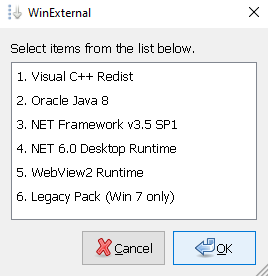
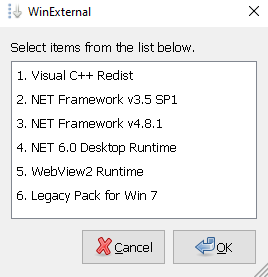
Update 08/25/2022

diff --git a/README.md b/README.md
@@ -4,19 +4,19 @@
 [![last commit](https://img.shields.io/github/last-commit/maravento/winexternal)](https://github.com/maravento/winexternal/)
 [![Twitter Follow](https://img.shields.io/twitter/follow/maraventostudio.svg?style=social)](https://twitter.com/maraventostudio)
 
-**WinExternal** is a project that compiles several essential packages for Windows in an unattended and silent launcher
+**WinExternal** is a project that compiles various essential offline packages for Windows into one silent unattended launcher
 
-**WinExternal** es un proyecto que recopila varios paquetes esenciales para Windows en un lanzador desatendido y silencioso
+**WinExternal** es un proyecto que recopila varios paquetes esenciales fuera de línea para Windows en un lanzador desatendido y silencioso
 
 ## DATA SHEET
 
 ---
 
-[![Image](https://raw.githubusercontent.com/maravento/winexternal/master/img/download.png)](https://mega.nz/file/WcECiAJQ#V50wMXZNJpelz89uJ40rw6xCS82JU14vj9G_n1BYXo0)
+[![Image](https://raw.githubusercontent.com/maravento/winexternal/master/img/download.png)](https://mega.nz/file/mAlWyaIJ#EF-d5499M_9crCZ8DPnd4AFCwPOtmPDLmTDUOBdRftw)
 
 |File|OS|Size|
 | :---: | :---: | :---: |
-|WinExternal.exe (.zip)|Windows 7/8/10/11 x86 x64|894 MB|
+|WinExternal.exe (.zip)|Windows 7/8/10/11 x86 x64|809,4 MB|
 
 ## HOW TO USE
 
@@ -48,13 +48,7 @@ WinExternal contains standalone packages. Select the one of your preference / Wi
 - Microsoft Visual Legacy Runtimes x86: Basic/C++ 2002 (7.0.9975.0) - 2003 (7.10.6119.0)
 - Microsoft Visual Studio 2010 Tools for Office Runtime x86 x64 (10.0.60833.0)
 
-### Oracle Java 8 Pack
-
-[![Image](https://raw.githubusercontent.com/maravento/winexternal/master/img/winexternal-oracle.png)](https://www.maravento.com/p/winexternal.html)
-
-- Oracle Java 8 Update 341 (8.0.3410.10) x86 x64
-
-### .NET Framework v3.5 SP1 Pack
+### .NET Framework v3.5 SP1
 
 [![Image](https://raw.githubusercontent.com/maravento/winexternal/master/img/winexternal-net35.png)](https://www.maravento.com/p/winexternal.html)
 
@@ -65,6 +59,18 @@ WinExternal contains standalone packages. Select the one of your preference / Wi
 - Backward compatibility with previous versions of Windows 10/11 21H2 or Windows Server versions is not guaranteed / No se garantiza retro-compatibilidad con versiones anteriores de Windows 10/11 21H2 o versiones Windows Server
 - Only OS English/Spanish / Solo SO Inglés/Español
 - Installation can fail for many reasons. In this case, unzip `WinExternal.exe` on your operating system drive (e.g.: `c:\`), go to `WinExternal\NET35\alternative` and run the `Install .NET Framework 3.5 via DISM.cmd` script with administrative privileges (ISO image required). For more information see `WinExternal\NET35\alternative\readme.txt` / La instalación puede fallar por muchas causas. En este caso descomprima `WinExternal.exe` en la unidad de su sistema operativo (ej: `c:\`), acceda a `WinExternal\NET35\alternative` y ejecute el script `Install .NET Framework 3.5 via DISM.cmd` con privilegios administrativos (requiere imagen ISO). Para mayor información consulte `WinExternal\NET35\alternative\readme.txt`
+
+### .NET Framework 4.8.1
+
+[![Image](https://raw.githubusercontent.com/maravento/winexternal/master/img/winexternal-net481.png)](https://www.maravento.com/p/winexternal.html)
+
+- .NET Framework v4.8.1 Standalone Installation Package for Windows 10/11 (20H2 or Later - EN/SP) / Paquete independiente de instalación de .NET Framework v4.8.1 para Windows 10/11 (20H2 o Superior - EN/ES)
+
+#### Important About .NET Framework v4.8.1
+
+- Includes native support for Arm64, Accessible Tooltips, Windows Forms – Accessibility Improvements. For more information, check: / Incluye soporte nativo para Arm64, información sobre herramientas accesible, Windows Forms - Mejoras de accesibilidad. Para mayor información, consulte: [Release Notes](https://github.com/microsoft/dotnet/blob/master/releases/net481/README.md)
+- Backward compatibility with previous versions of Windows 10/11 20H2 is not guaranteed / No se garantiza retro-compatibilidad con versiones anteriores de Windows 10/11 20H2
+- Only use this installer in case traditional methods fail (WSUS, SCCM or similar) / Solo use este instalador en caso de fallo en los métodos tradicionales (WSUS, SCCM o similar)
 
 ### .NET 6.0 Desktop Runtime
 
@@ -78,7 +84,7 @@ WinExternal contains standalone packages. Select the one of your preference / Wi
 
 - WebView2 Runtime Installer X86 X64 - 104.0.1263.54
 
-### Legacy Pack (Win 7 only)
+### Legacy Pack (for Windows 7)
 
 [![Image](https://raw.githubusercontent.com/maravento/winexternal/master/img/winexternal-legacy.png)](https://www.maravento.com/p/winexternal.html)
 
@@ -99,8 +105,6 @@ WinExternal contains standalone packages. Select the one of your preference / Wi
 
 The following installers no longer run on WinExternal: / Los siguientes instaladores ya no se ejecutan en WinExternal:
 
-- [Adobe Flash Player (ActiveX for IE, NPAPI for Firefox)](https://www.adobe.com/la/products/flashplayer/end-of-life.html) (EOL December 31, 2020)
-- [Adobe Shockwave Player](https://helpx.adobe.com/enterprise/kb/eol-adobe-flash-shockwave-player.html) (EOL April 9, 2019)
 - [Microsoft Silverlight](https://support.microsoft.com/en-us/windows/silverlight-end-of-support-0a3be3c7-bead-e203-2dfd-74f0a64f1788) (EOS October 12, 2021)
 - [Microsoft Visual J# Version 2.0 Redistributable Package SE](https://docs.microsoft.com/en-us/lifecycle/products/microsoft-visual-j-version-20-redistributable-package) ([x86](http://web.archive.org/web/20201023224856/https://www.microsoft.com/en-us/download/details.aspx?id=18084) [x64](http://web.archive.org/web/20200812110243/https://www.microsoft.com/en-us/download/details.aspx?id=15468)) (EOS Jul 12, 2016)
 - [Microsoft Visual Studio 2010 F# 2.0](http://web.archive.org/web/20200721134946/https://www.microsoft.com/en-us/download/details.aspx?id=15834) (EOS Jul 14, 2020)
@@ -118,7 +122,6 @@ The following installers no longer run on WinExternal: / Los siguientes instalad
 - [Microsoft NetFramework](https://dotnet.microsoft.com/download/dotnet-framework)
 - [Microsoft Visual C++](https://docs.microsoft.com/en-US/cpp/windows/latest-supported-vc-redist?view=msvc-170)
 - [Microsoft XNA Framework Redistributable](https://www.microsoft.com/en-us/download/details.aspx?id=27598)
-- [Oracle Java 8](https://www.java.com/en/download/manual.jsp)
 - [Resource Turner](http://www.restuner.com/)
 - [vcredist](https://github.com/abbodi1406/vcredist/releases)
 - [WinZenity](https://github.com/maravento/winzenity)
